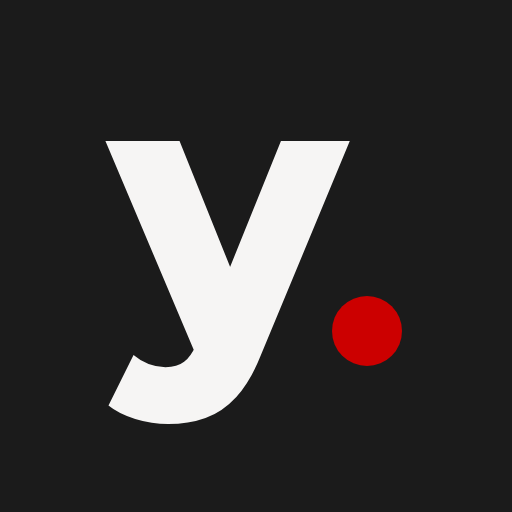
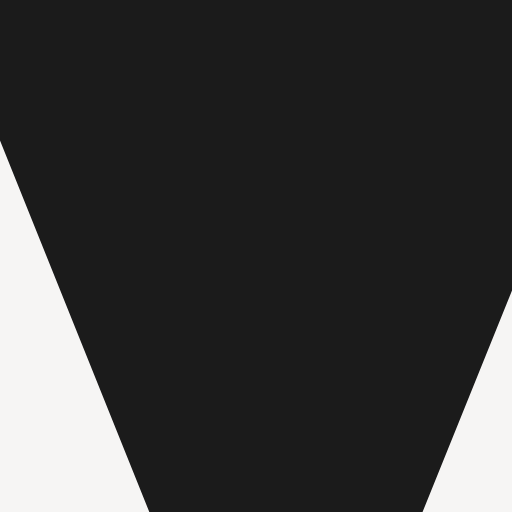
Фавикон: белая y на тёмном
Claude-Session: https://claude.ai/code/session_01CFdiw4zc4PH5U5KtYKsm6R

Changed region(s): [[0.0, 0.25, 0.6875, 1.0], [0.8125, 0.5625, 1.0, 1.0], [0.625, 0.5625, 0.8125, 0.7188]]

diff --git a/src/app/layout.tsx b/src/app/layout.tsx
@@ -27,7 +27,7 @@ export const metadata: Metadata = {
     images: [{ url: '/og.jpg', width: 1200, height: 630, alt: 'Ильяс Ергазы – маркетинг под ключ' }],
   },
   twitter: { card: 'summary_large_image' },
-  icons: { icon: '/icon.png', apple: '/icon.png' },
+  icons: { icon: [{ url: '/favicon.ico', sizes: 'any' }, { url: '/icon.png', type: 'image/png' }], apple: '/apple-icon.png' },
   robots: { index: true, follow: true },
 };
 
